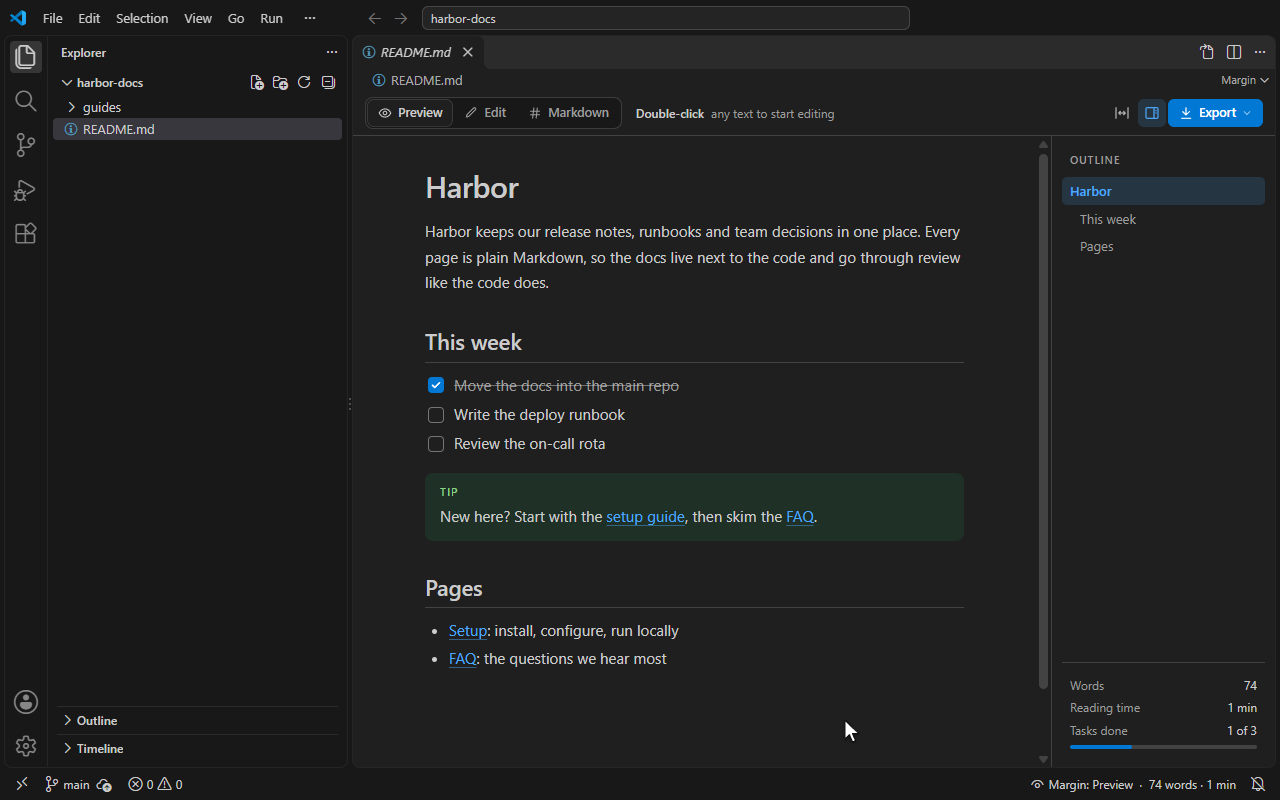
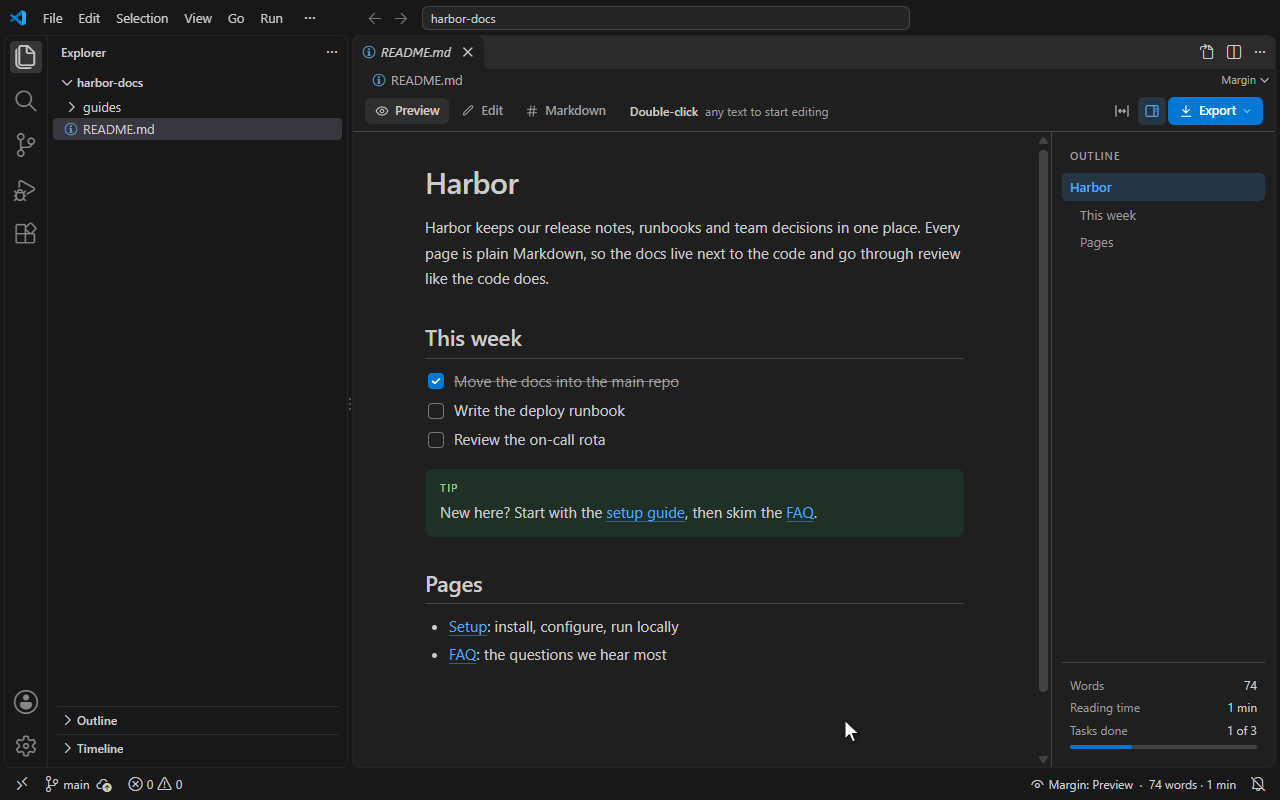
docs(demo): the GIF builds a table from the + handle, drags a block and follows a link before the diff

diff --git a/README.md b/README.md
@@ -10,7 +10,7 @@ code --install-extension zoomieloaf.margin
 ```
 <!-- /github-only -->
 
-![Margin in VS Code: a Markdown page edited in place, a link followed to another page, and the git diff showing only the edited lines](media/demo.gif)
+![Margin in VS Code: a phrase made bold from the selection menu, a table added from the + handle, a callout dragged into place, a task ticked, a link followed to another page and back, and the git diff of the plain Markdown](media/demo.gif)
 
 ## What you get
 
